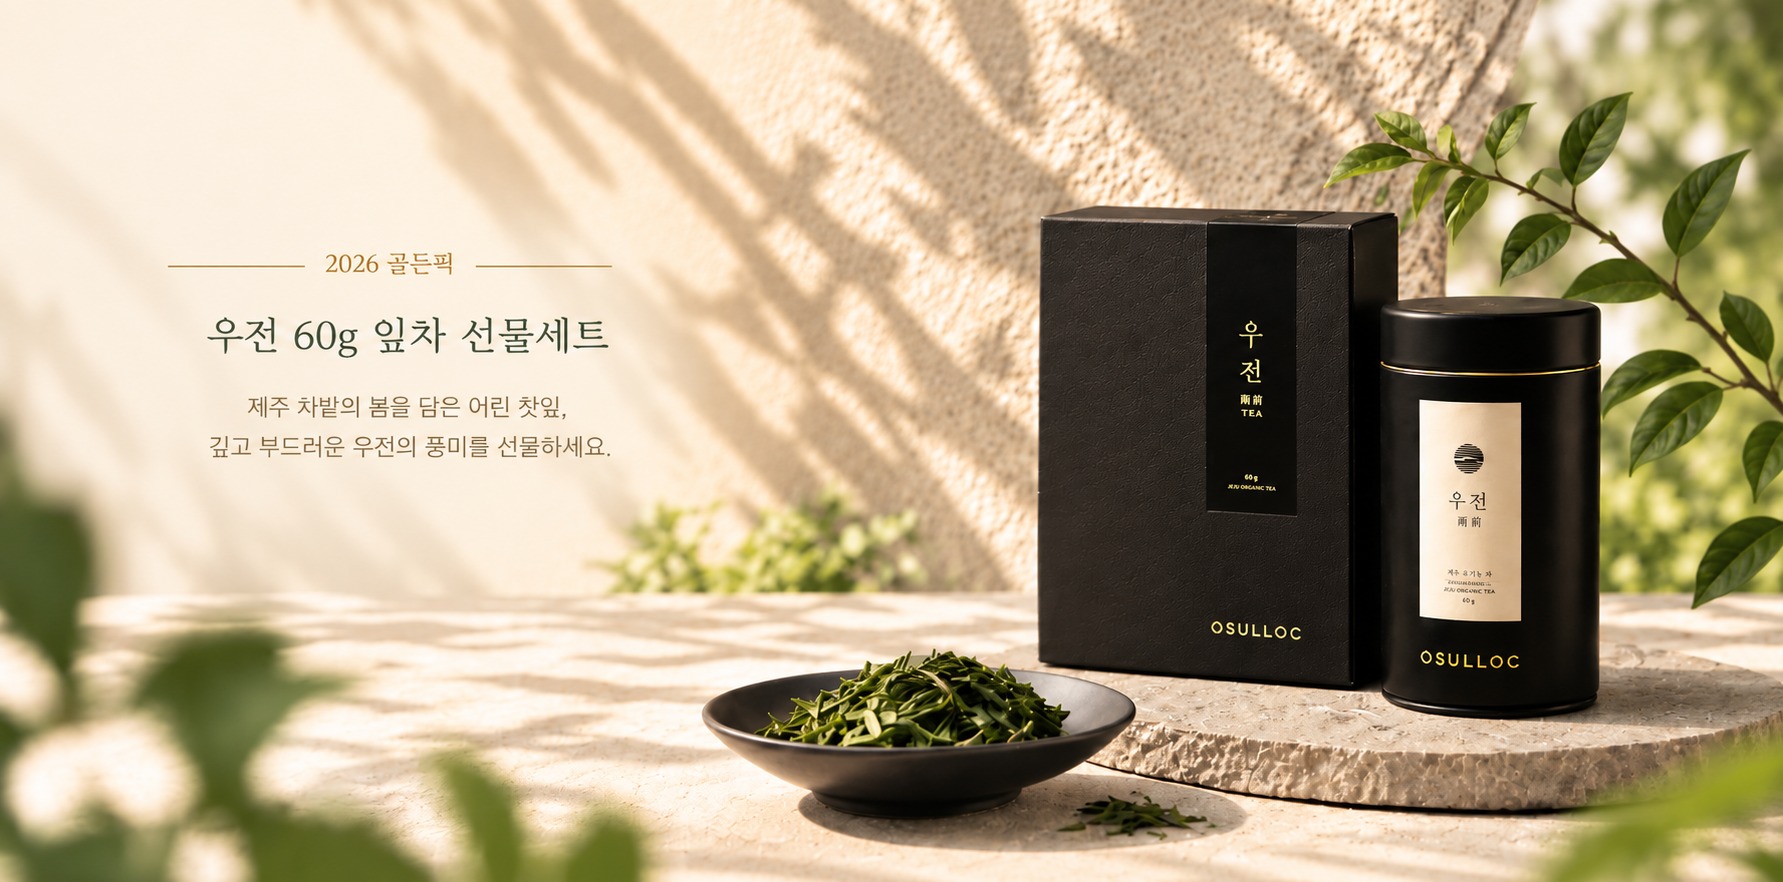
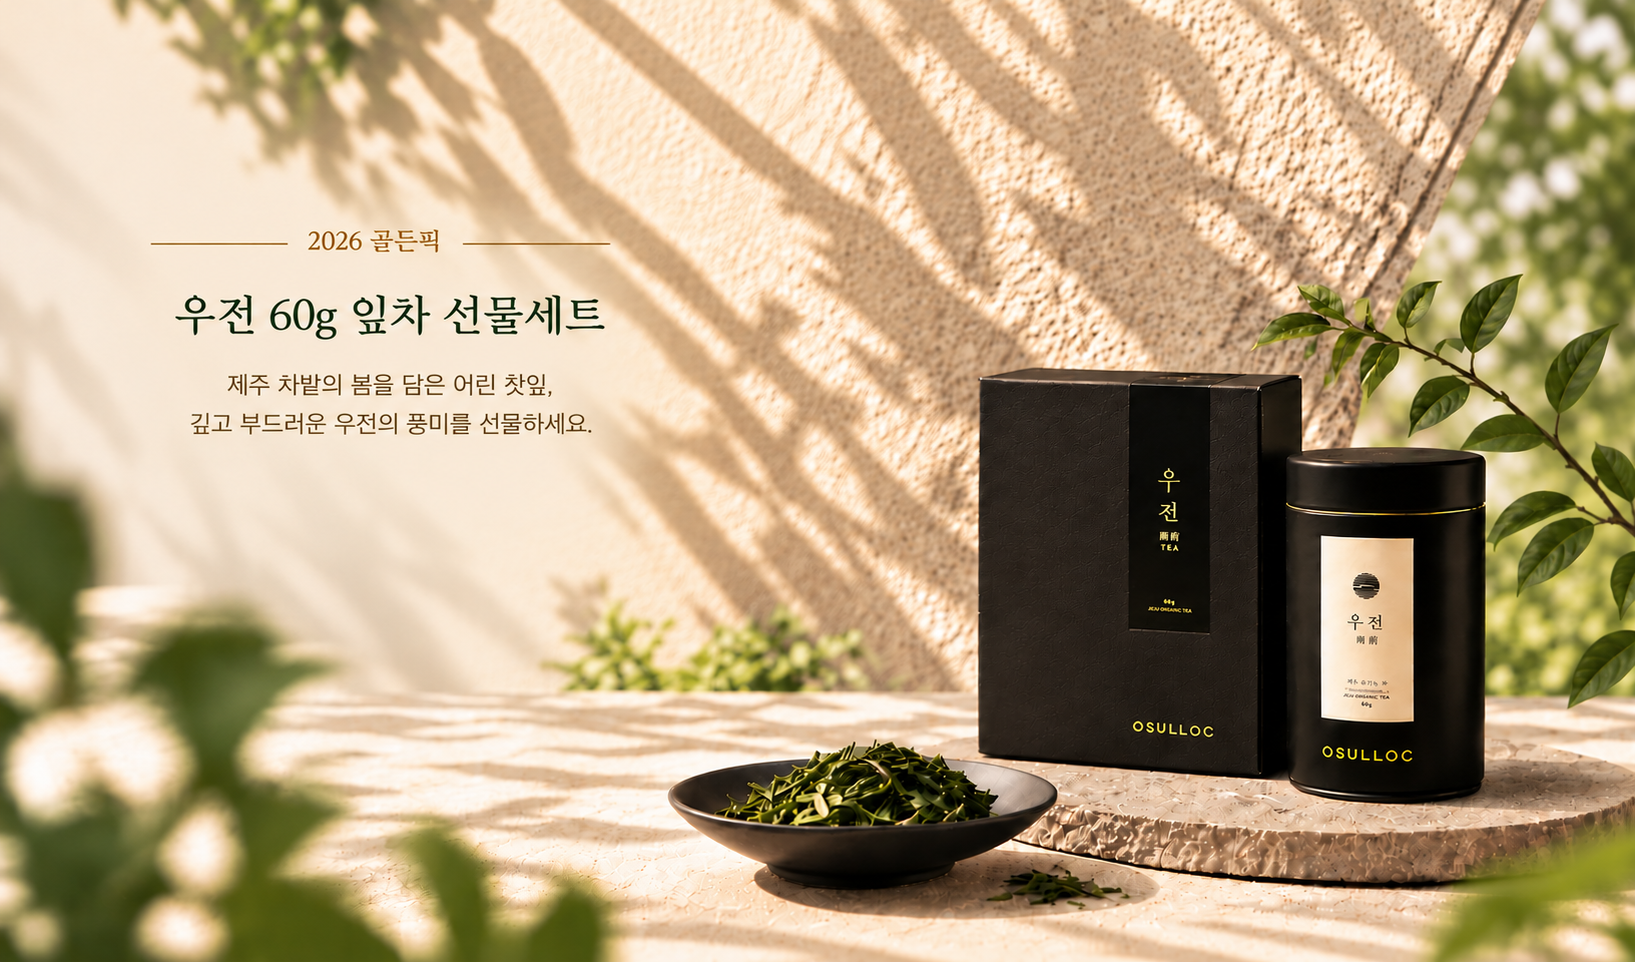
261011_1st_commit

diff --git a/css/index.css b/css/index.css
@@ -1,25 +1,34 @@
 /* Main */
 #index-main {
   width: 100%;
-  /* margin-top: 170px; */
   background-color: #fff;
 }
+
 .main-slider {
   width: 100%;
-  max-height: 100vh;
+  aspect-ratio: 1637 / 960;
   overflow: hidden;
 }
+
 .main-slider-track {
   display: flex;
-}
-.main-slide {
   width: 100%;
-  flex-shrink: 0;
+  height: 100%;
 }
+
+.main-slide {
+  flex: 0 0 100%;
+  width: 100%;
+  height: 100%;
+  overflow: hidden;
+}
+
 .main-slide img {
   display: block;
   width: 100%;
+  height: 100%;
   object-fit: cover;
+  object-position: center;
 }
 
 section{
